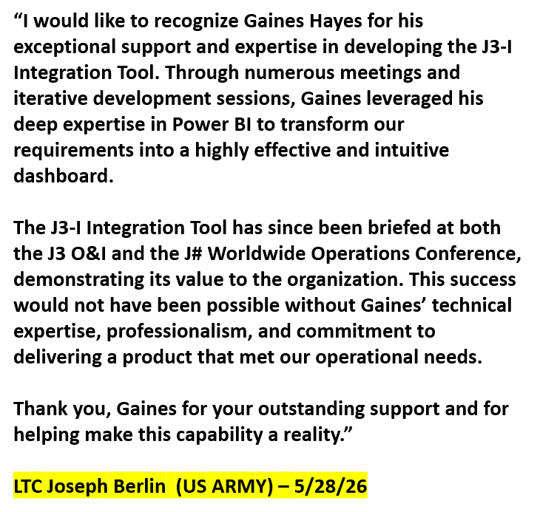
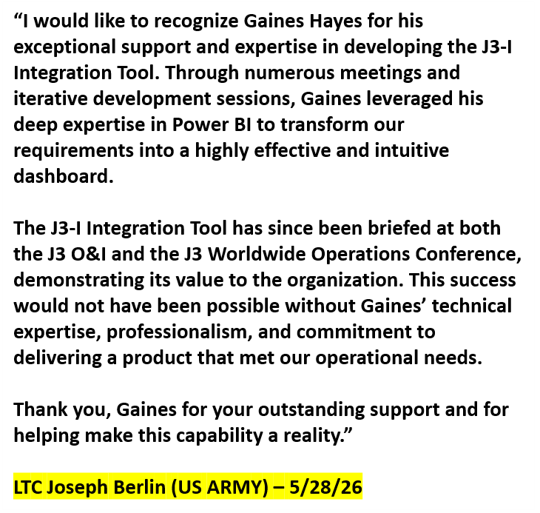
new recs

diff --git a/index.html b/index.html
@@ -138,6 +138,8 @@
 		<img src="img/Tim_Recommendation.png"> <p><br><p>
 		<img src="img/LaShae_Recommendation.png"> <p><br><p>
 		<img src="img/Berlin_Recommendation.png"> <p><br><p>
+		<img src="img/Autry_Recommendation.png"> <p><br><p>
+		<img src="img/JoAnne_Recommendation.png"> <p><br><p>
     </div>
    </section> 
 
